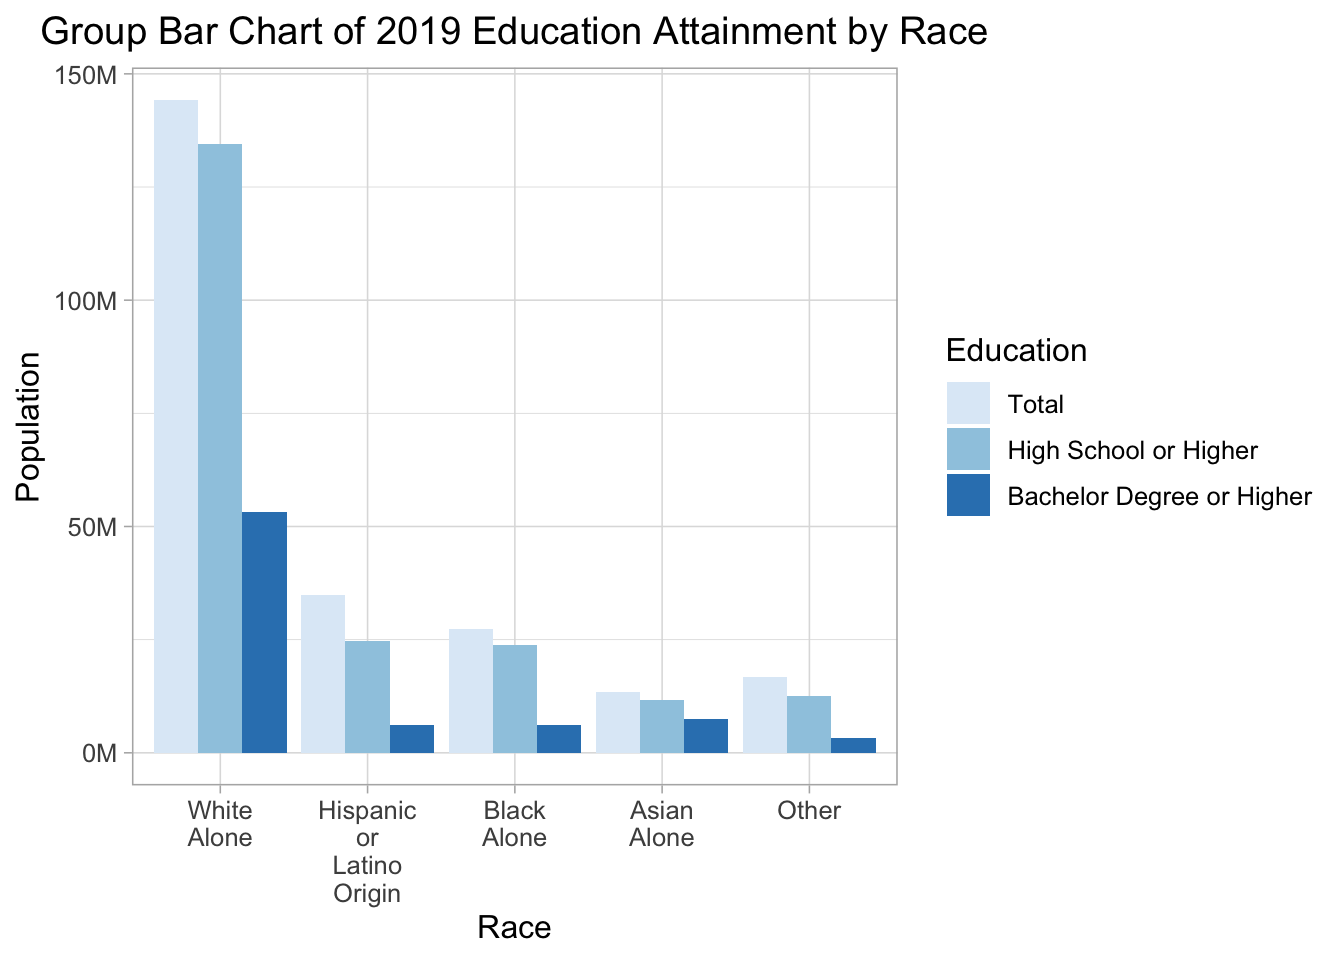
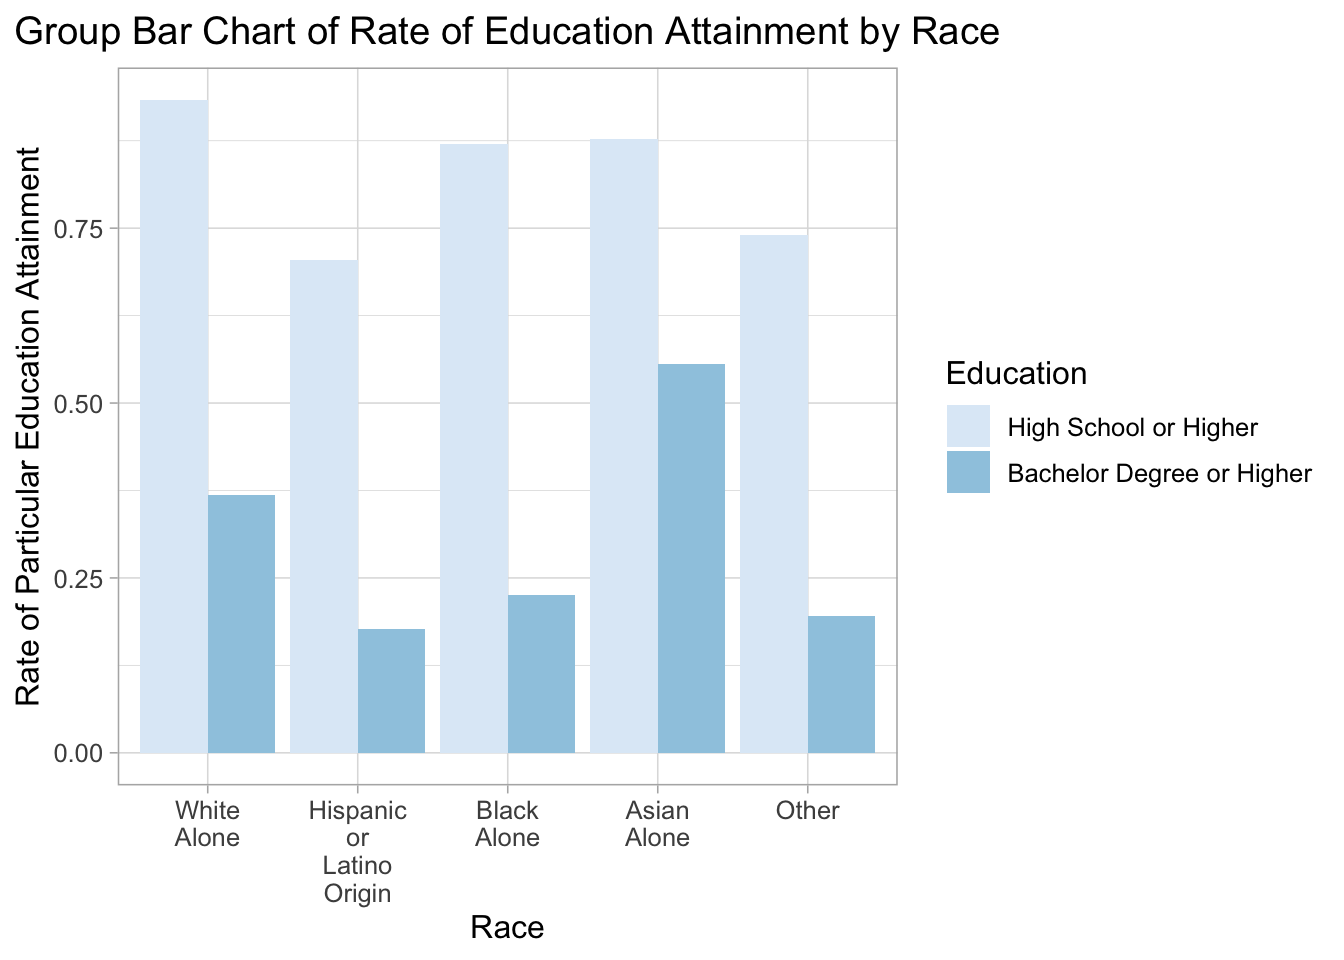
5.2 Modified

diff --git a/docs/results.html b/docs/results.html
@@ -180,36 +180,44 @@ code span.wa { color: #60a0b0; font-weight: bold; font-style: italic; } /* Warni
 </div>
 <div id="different-levels-of-education-attainment-by-race" class="section level2">
 <h2><span class="header-section-number">5.2</span> Different Levels of Education Attainment by Race</h2>
-<p>Now, let us look at the different levels of education attainment by race in the United States. Different from the previous plot, in this plot, the levels of educational attainment are “Total”, “Higher School or Higher”, and “Bachelor Degree or Higher”, represent the total population, people have a high school or higher degree, and people with a bachelor or higher degree respectively.
-<img src="bookdownproj_files/figure-html/unnamed-chunk-16-1.png" width="672" /></p>
-<p>From the above grouped bar chart, we can observe that for White people, who occupy the largest population in the United States, generally have higher level of education attainment than other races since the height of the bar representing the population of white people who have high school graduate or higher degree is closed to the bar representing the total white population. Moreover, Hispanic or Latino people have relative lower high school or higher graduation rate that other races, since the bars representing total population and population for people who obtain higher school graduate or higher degree have the largest gap among all group bars.</p>
-<p>Notice that even though the group <code>Other</code> has a larger total population than the group <code>Asian Alone</code>, we plot the bar for <code>Asian Alone</code> first because the group <code>Other</code> is an aggregation of races including native Hawaiian and American Indian and so on, and each race itself has a smaller population than Asian American. Moreover, if we look at the group of Asian American alone, we can notice that the heights of bars representing total population and two levels of educational attainment are pretty closed, which reveals that Asian American has a relatively high rate of people obtain high school graduate or higher degree or even bachelor or higher degree.</p>
+<p>Now, let us look at the different levels of education attainment by race in the United States. Different from the previous plot, in this plot, the levels of educational attainment are “Higher School or Higher” and “Bachelor Degree or Higher”, which represent people have a high school graduate or higher degree and people with a bachelor or higher degree respectively.</p>
+<div class="sourceCode" id="cb2"><pre class="sourceCode r"><code class="sourceCode r"><span id="cb2-1"><a href="results.html#cb2-1"></a><span class="kw">ggplot</span>(race_total)<span class="op">+</span></span>
+<span id="cb2-2"><a href="results.html#cb2-2"></a><span class="st">  </span><span class="kw">geom_col</span>(<span class="kw">aes</span>(<span class="dt">x=</span>Race,<span class="dt">y=</span>rate,<span class="dt">fill=</span>Education),<span class="dt">position =</span><span class="st">&quot;dodge&quot;</span>)<span class="op">+</span></span>
+<span id="cb2-3"><a href="results.html#cb2-3"></a><span class="st">  </span><span class="kw">xlab</span>(<span class="st">&quot;Race&quot;</span>)<span class="op">+</span></span>
+<span id="cb2-4"><a href="results.html#cb2-4"></a><span class="st">  </span><span class="kw">ylab</span>(<span class="st">&quot;Rate of Particular Education Attainment&quot;</span>)<span class="op">+</span></span>
+<span id="cb2-5"><a href="results.html#cb2-5"></a><span class="st">  </span><span class="kw">ggtitle</span>(<span class="st">&quot;Group Bar Chart of Rate of Education Attainment by Race&quot;</span>)<span class="op">+</span></span>
+<span id="cb2-6"><a href="results.html#cb2-6"></a><span class="st">  </span><span class="kw">scale_fill_brewer</span>(<span class="dt">palette =</span> <span class="dv">1</span>) <span class="op">+</span><span class="st"> </span></span>
+<span id="cb2-7"><a href="results.html#cb2-7"></a><span class="st">  </span><span class="kw">theme_light</span>(<span class="dv">12</span>) <span class="op">+</span><span class="st"> </span></span>
+<span id="cb2-8"><a href="results.html#cb2-8"></a><span class="st">  </span><span class="kw">theme</span>(<span class="dt">plot.title=</span><span class="kw">element_text</span>(<span class="dt">hjust=</span><span class="fl">0.5</span>))</span></code></pre></div>
+<p><img src="bookdownproj_files/figure-html/unnamed-chunk-17-1.png" width="672" /></p>
+<p>From the above grouped bar chart, we can observe that for White people, who occupy the largest population in the United States, have the highest rate of high school graduate or higher than other races since the height of the bar representing the rate of white people who have a high school graduate or higher degree is the highest. Moreover, Hispanic or Latino people have the lowest rate of high school or higher and bachelor or higher degree than other races, since the bars representing these two levels are the shortest.</p>
+<p>Notice that even though the group <code>Other</code> has a larger total population than the group <code>Asian Alone</code>, we plot the bars for <code>Asian Alone</code> first because the group <code>Other</code> is an aggregation of races including native Hawaiian and American Indian and so on, and each race itself has a smaller population than Asian American. Moreover, if we look at the group of Asian American alone, we can notice Asian Americans generally have high education attainment with a relatively high rate of high school graduate or higher and the highest rate of bachelor degree or high among all races.</p>
 </div>
 <div id="different-levels-of-education-attainment-by-race-and-gender-together" class="section level2">
 <h2><span class="header-section-number">5.3</span> Different Levels of Education Attainment by Race and Gender Together</h2>
 <p>In this section, we look at how levels of educational attainment vary by gender for each race by plotting a horizontal stacked bar chart faceted by 2 educational levels, namely higher school graduate or higher and bachelor’s degree or higher.</p>
-<p><img src="bookdownproj_files/figure-html/unnamed-chunk-19-1.png" width="672" /></p>
+<p><img src="bookdownproj_files/figure-html/unnamed-chunk-20-1.png" width="672" /></p>
 <p>One interesting finding from the above horizontal stacked bar chart is that for both facets, more than 50% of the population who obtain high school or higher degrees or bachelor or higher degrees are females. This slightly unbalanced proportion of education attainment within gender becomes more trivial when we focus on the plot of <code>Bachelor Degree or Higher</code> alone, or when we focus on black people alone. Clearly, the proportion of females among all population who obtain high school or higher degree is larger than the proportion of males, and this higher proportion keep increasing when it goes to the group of people with bachelor or higher degrees.</p>
 <p>Moreover, among all races, black females clearly have the highest proportion compared to black males among all black people who obtain higher school or higher degrees or bachelor or higher degrees. Besides, the two proportional breakdowns of gender for people who have degrees of high school or higher or degrees of bachelor or higher remain almost unchanged for white people and Asian Americans.</p>
 </div>
 <div id="median-earning-for-each-level-of-education-attainment-and-gender" class="section level2">
 <h2><span class="header-section-number">5.4</span> Median Earning for each Level of Education Attainment and Gender</h2>
 <p>After exploring the proportional break down of education attainment by gender and race, we now focus on the possible influences of different levels of education attainment. In this section, we use bar chart faceted by gender to show how the median earning differs in population with different education attainments and how these differences appear in genders.</p>
-<p><img src="bookdownproj_files/figure-html/unnamed-chunk-21-1.png" width="672" /></p>
+<p><img src="bookdownproj_files/figure-html/unnamed-chunk-22-1.png" width="672" /></p>
 <p>We can observe from the plot that people’s earnings increase as they obtain higher degrees of education. Moreover, we can find that for all genders and the total population, median earnings for people who obtain bachelor’s degrees or higher are higher than the overall median earning for all populations. If we explore more on the bars’ lengths, we can observe a considerable increase in earnings for people obtaining bachelor’s degrees compared to the ones attending some colleges. The earnings for people with advanced degrees increase even more. This finding reveals the positive influence of higher education on people’s earnings and the high return rate of higher education investment regarding future earning.</p>
 <p>If we look closer to genders, females’ median earnings are lower than males and the total population regardless of educational attainment levels. Males with advanced degrees, namely graduate or professional degree, have the highest median earnings, and females with education attainment that is less than high school earn at least among all groups.</p>
 </div>
 <div id="education-attainment-and-womens-marital-and-fertility-status" class="section level2">
 <h2><span class="header-section-number">5.5</span> Education Attainment and Women’s Marital and Fertility Status</h2>
 <p>In the last section, we notice that though high education attainment increases people’s earnings, the earnings among males and females are unequal for all education attainment levels. To explore the influence of educational attainment on women’s lives, we use a new data set with information on marital status for women who give birth or not in 2019 in different education levels. Then, we plot a horizontal stacked bar chart to visualize women’s distribution with different marriage statuses, fertility statuses, and education levels.</p>
-<p><img src="bookdownproj_files/figure-html/unnamed-chunk-22-1.png" width="672" /></p>
+<p><img src="bookdownproj_files/figure-html/unnamed-chunk-23-1.png" width="672" /></p>
 <p>Clearly, women who finished their high schools or obtained some college degrees take up the largest proportion of the whole women population, so they still occupy the largest proportion of women who gave birth or not. Moreover, the proportional breakdown of education attainment for women giving birth of not in 2019 remained unchanged for married women. However, the proportion of women who obtained some college degree or higher is larger for unmarried women who did not give births than who gave births in 2019.</p>
 <p>One interesting finding is that for women who gave birth to babies in 2019, the proportional breakdown of education attainment was different for women who were married or not. More than 50% of unmarried women who gave birth to babies in 2019 status had a high school graduate degree or lower. However, approximately 75% of married women who gave birth to babies in 2019 had some college degree or higher. From this, we can observe some relationship between education attainment and the unmarried birth and women’s choices of marital status while giving birth.</p>
 </div>
 <div id="education-attainment-and-median-earning-by-states" class="section level2">
 <h2><span class="header-section-number">5.6</span> Education Attainment and Median Earning by States</h2>
 <p>In this section, we conduct a linked micromap to see how education attainment and median earning differ in states in the United states in 2019 and explore the potential relationship among education attainment, median earning, and states. To visualize the data, we plot a linked micromap, including a Cleveland dot plot for bachelor’s degree or higher rate for each state, a Cleveland dot plot for the median earning for the total population in each state, and a map indicating the state corresponding the dot in the cleveland dot plot. Notice that both cleveland dot plot are sorted by the rate of bachelor’s degree or higher for each state. Even though Washington D.C. is not a state in the United States, it is an important factor to be considered. Therefore, we put it in the plot as well.</p>
-<p><img src="bookdownproj_files/figure-html/unnamed-chunk-24-1.png" width="720" /></p>
+<p><img src="bookdownproj_files/figure-html/unnamed-chunk-25-1.png" width="720" /></p>
 <pre><code>## [1] &quot;micromapST Ends&quot;</code></pre>
 <p>From the plot, it is clear to notice that Washington DC has the highest bachelor’s degree or higher education attainment rate and also the highest median earnings. It is reasonable because it is the capital city of the United States with fewer population compared to other states. Therefore, we regard it as an outlier. Looking at the micromap on the left side of the plot, we can see that the states with greater higher education attainment rates than the medium are generally locally on East as well as West coast and on the Northern part in the United States. The states with relatively low higher education rates are mostly located on the Central and Southern part in the country.</p>
 <p>In the plot, there is no a significant positive linear relationship between higher education attainment rate and median earning for each state. This is reasonable because the medium earning of a state is affected by multiple factors, including policy, geographic location, resources, and so on. However, we can still observe a slight trend of a higher median earning with a higher rate of population with bachelor degrees or higher for states.</p>
